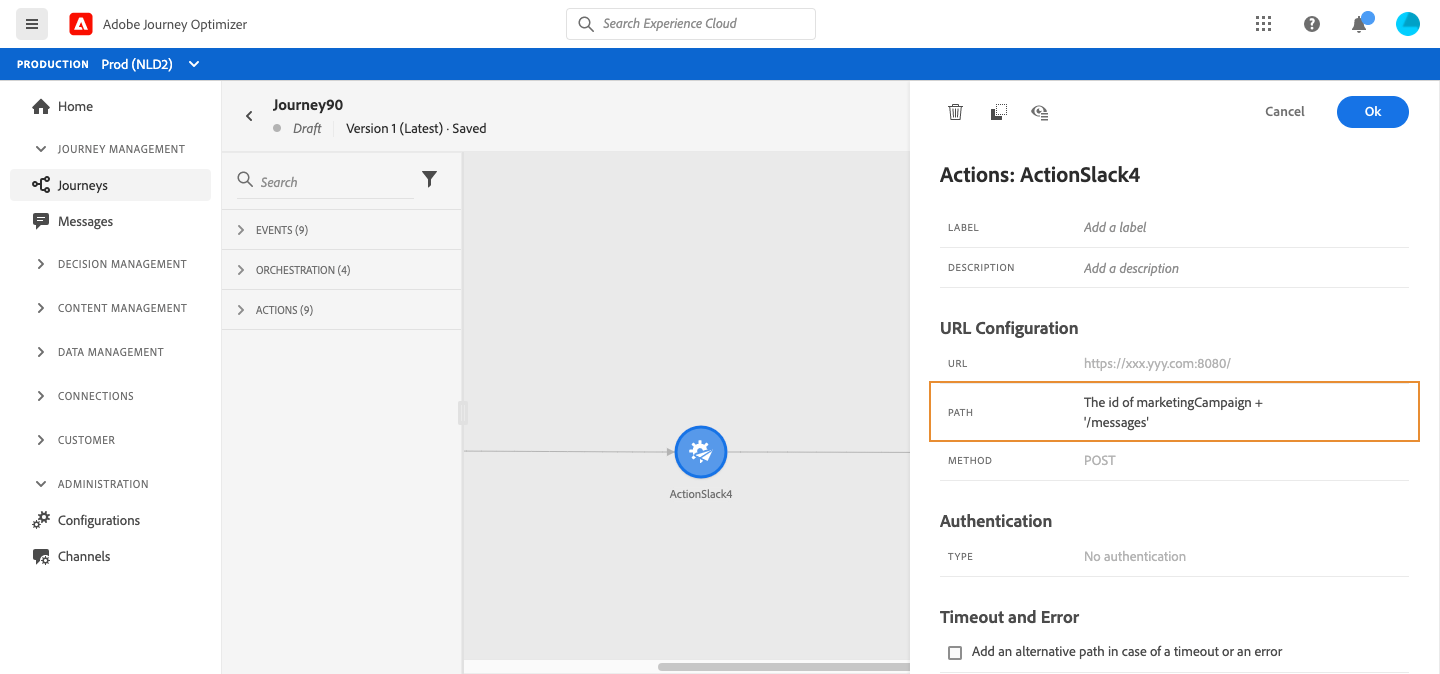
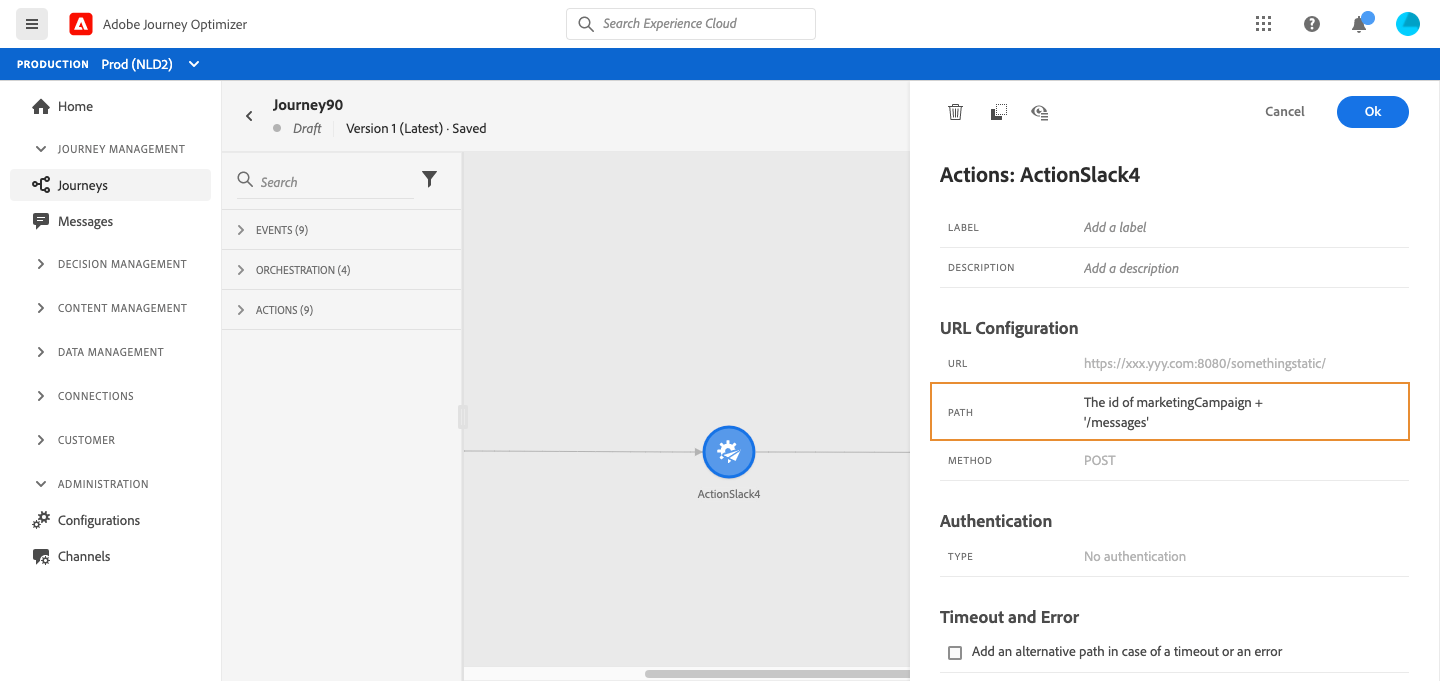
docac-6764 dynamic url path

diff --git a/help/using/building-journeys/using-custom-actions.md b/help/using/building-journeys/using-custom-actions.md
@@ -24,18 +24,18 @@ If the URL includes a dynamic path, specify the path in the **[!UICONTROL Path]*
 >
 >You cannot set up the static part of the URL in the journey, but in the global configuration of the custom action. [Learn more](../action/about-custom-action-configuration.md).
 
-To concatenate fields and plain text strings, use the Plus sign (+) in the advanced expression editor. Enclose plain text strings in single quotation marks ('). [Learn more](https://experienceleague.adobe.com/docs/journeys/using/building-advanced-conditions-journeys/expressionadvanced.html){target="_blank"}.
+To concatenate fields and plain text strings, use the String functions or the Plus sign (+) in the advanced expression editor. Enclose plain text strings in single quotation marks (') or in double quotation marks ("). [Learn more](https://experienceleague.adobe.com/docs/journeys/using/building-advanced-conditions-journeys/expressionadvanced.html){target="_blank"}.
 
 This table shows an example of configuration:
 
 | Field | Value |
 | --- | --- |
-| URL | `https://xxx.yyy.com:8080/` |
+| URL | `https://xxx.yyy.com:8080/somethingstatic/` |
 | Path | `The id of marketingCampaign + '/messages'` |
 
 The concatenated URL has this form:
 
-`https://xxx.yyy.com:8080/`\<campaign ID\>`/messages` 
+`https://xxx.yyy.com:8080/somethingstatic/`\<campaign ID\>`/messages` 
 
 ![](../assets/journey-custom-action-url.png)
 

diff --git a/help/using/action/about-custom-action-configuration.md b/help/using/action/about-custom-action-configuration.md
@@ -47,9 +47,9 @@ When configuring a custom action, you need to define the following **[!UICONTROL
 
     * If the URL is static, enter the URL in this field.
 
-    * If the URL includes a dynamic path, enter only the static part of the URL, that is, the scheme, the host, and the port.
+    * If the URL includes a dynamic path, enter only the static part of the URL, that is, the scheme, the host, the port, and, optionally, a static part of the path.
 
-        Example: `https://xxx.yyy.com:8080`
+        Example: `https://xxx.yyy.com:8080/somethingstatic/`
 
         You will specify the dynamic path of the URL when adding the custom action to a journey. [Learn more](../building-journeys/using-custom-actions.md).
 
